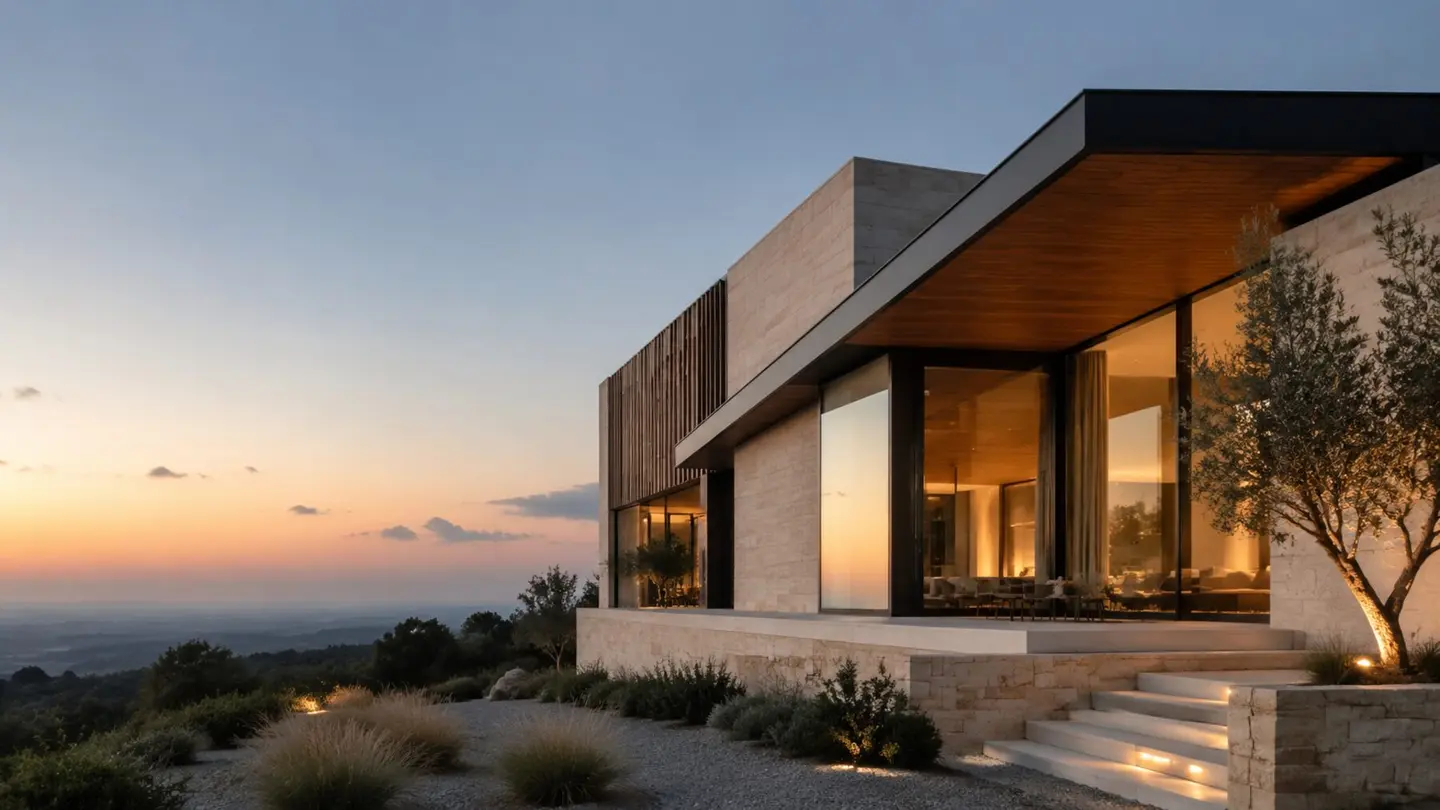
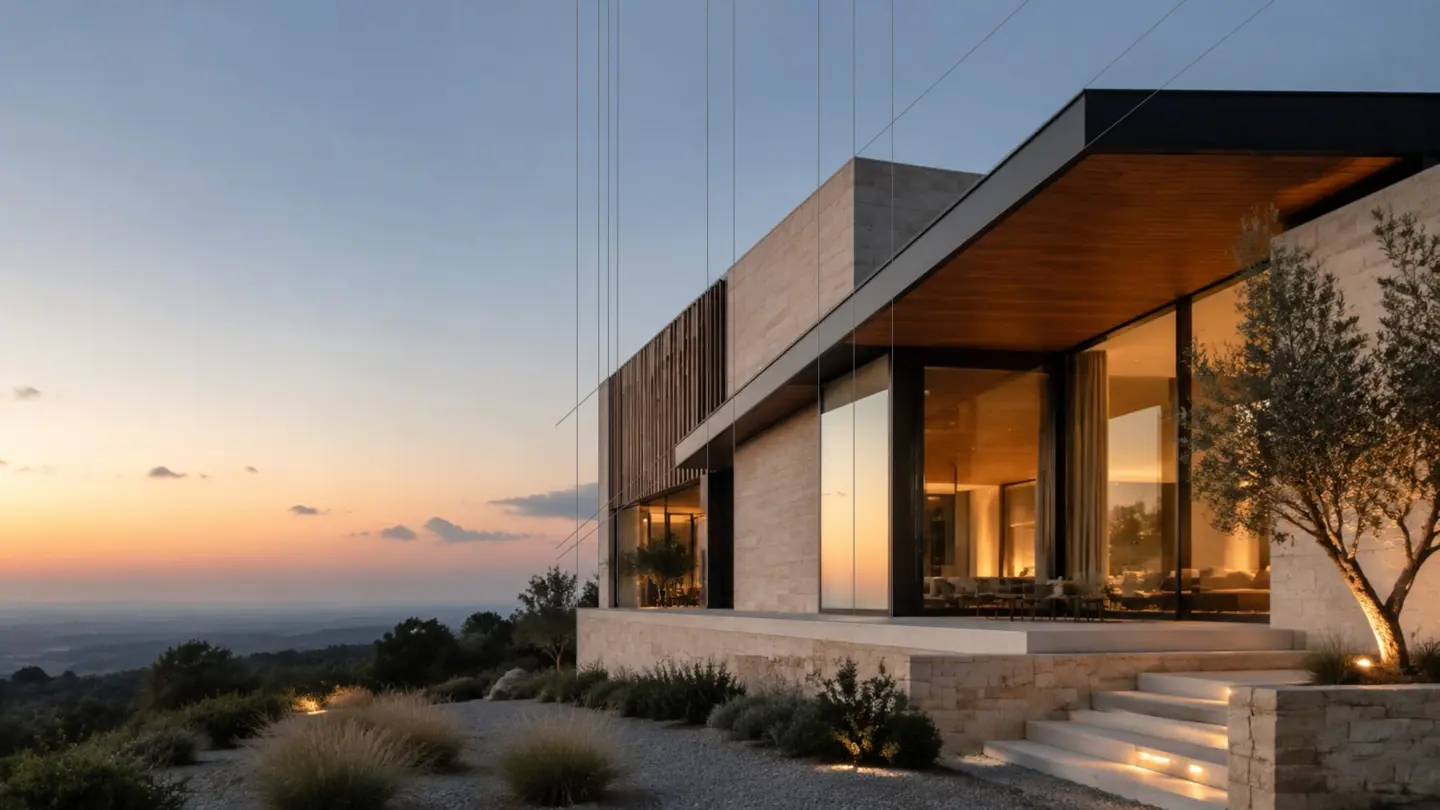
Replace homepage hero artwork

diff --git a/index.html b/index.html
@@ -78,7 +78,7 @@
     :root{--ink:#182321;--paper:#f5f2ec;--cream:#ebe6dc;--white:#fffdfa;--line:#d8d2c8;--muted:#717873;--oxide:#b76747;--olive:#7c8574;--serif:Georgia,'Times New Roman',serif;--sans:Inter,ui-sans-serif,system-ui,-apple-system,BlinkMacSystemFont,'Segoe UI',sans-serif;--wrap:min(1280px,calc(100% - 96px))}
     *{box-sizing:border-box}html{scroll-behavior:smooth}body{margin:0;background:var(--paper);color:var(--ink);font-family:var(--sans);overflow-x:hidden}body.lock{overflow:hidden}a{color:inherit;text-decoration:none}button,input,textarea,select{font:inherit}button{cursor:pointer}.wrap{width:var(--wrap);margin:auto}.eyebrow{font-size:10px;letter-spacing:.18em;text-transform:uppercase;color:var(--muted)}.serif{font-family:var(--serif);font-style:italic;font-weight:400}.progress{position:fixed;z-index:50;top:0;left:0;width:0;height:3px;background:var(--oxide);transform-origin:left}
     .site-header{position:fixed;z-index:40;top:0;left:0;right:0;height:82px;padding:0 48px;display:flex;align-items:center;justify-content:space-between;color:var(--ink);transition:background .35s,color .35s,height .35s}.site-header.scrolled{height:68px;background:rgba(245,242,236,.94);color:var(--ink);backdrop-filter:blur(14px);border-bottom:1px solid var(--line)}.logo{display:flex;align-items:center;width:130px;height:auto}.logo img{display:block;width:100%;height:auto}.desktop-nav{display:flex;align-items:center;gap:34px;font-size:10px;letter-spacing:.14em;text-transform:uppercase}.desktop-nav a{opacity:.8;transition:.2s}.desktop-nav a:hover,.desktop-nav a.active{opacity:1;color:var(--oxide)}.header-action,.outline-action{border:1px solid currentColor;background:transparent;padding:12px 16px;font-size:10px;letter-spacing:.13em;text-transform:uppercase;transition:.25s}.header-action:hover,.outline-action:hover{background:var(--ink);color:#fff;border-color:var(--ink)}.menu-button{display:none;border:0;background:none;color:inherit;font-size:24px;padding:8px}
-    .hero{min-height:760px;height:100svh;position:relative;display:flex;align-items:end;overflow:hidden;background:#d7d2c9;color:var(--ink)}.hero:before{content:"";position:absolute;inset:0;background:linear-gradient(90deg,rgba(247,243,235,.98) 0%,rgba(247,243,235,.88) 20%,rgba(247,243,235,.34) 42%,rgba(9,25,32,.05) 64%,rgba(9,25,32,.22) 100%),linear-gradient(0deg,rgba(4,17,23,.35),transparent 35%);z-index:1;pointer-events:none}.hero-image{position:absolute;inset:0;width:100%;height:100%;object-fit:cover;object-position:center}.hero-blueprint{position:absolute;z-index:2;left:clamp(260px,25vw,430px);top:23%;width:min(300px,24vw);height:auto;opacity:.25;color:#26332e;mix-blend-mode:multiply;pointer-events:none}.hero-blueprint line,.hero-blueprint path,.hero-blueprint rect{vector-effect:non-scaling-stroke}.hero-content{position:relative;z-index:3;width:var(--wrap);margin:0 auto 74px;display:grid;grid-template-columns:1.15fr .85fr;align-items:end;color:var(--ink)}.hero-kicker{font-size:11px;letter-spacing:.2em;text-transform:uppercase;margin-bottom:20px;color:#42504a}.hero h1{font-size:clamp(58px,7.4vw,126px);line-height:.88;letter-spacing:-.075em;font-weight:400;margin:0;max-width:760px}.hero h1 em{font-family:var(--serif);font-style:italic;color:var(--oxide)}.hero-lede{max-width:440px;margin:0 0 5px auto;padding:24px;background:rgba(245,242,236,.9);backdrop-filter:blur(10px);font-size:15px;line-height:1.6;color:#273530}.hero-lede p{margin:0 0 24px}.hero-actions{display:flex;align-items:center;gap:24px;flex-wrap:wrap}.hero-lede .outline-action{color:var(--ink);border-color:var(--ink)}.hero-lede .outline-action:hover{background:var(--ink);color:#fff}.hero-lede .text-link{margin-top:0}.hero-meta{position:absolute;z-index:3;left:48px;bottom:30px;font-size:9px;letter-spacing:.16em;text-transform:uppercase;color:#21302b99}.hero-index{position:absolute;z-index:3;right:48px;bottom:30px;display:flex;align-items:center;gap:14px;color:#fff;font-size:11px}.hero-index i{display:block;width:72px;height:1px;background:#ffffffaa}
+    .hero{min-height:760px;height:100svh;position:relative;display:flex;align-items:end;overflow:hidden;background:#d7d2c9;color:var(--ink)}.hero:before{content:"";position:absolute;inset:0;background:linear-gradient(90deg,rgba(247,243,235,.98) 0%,rgba(247,243,235,.88) 20%,rgba(247,243,235,.34) 42%,rgba(9,25,32,.05) 64%,rgba(9,25,32,.22) 100%),linear-gradient(0deg,rgba(4,17,23,.35),transparent 35%);z-index:1;pointer-events:none}.hero-image{position:absolute;inset:0;width:100%;height:100%;object-fit:cover;object-position:center}.hero-content{position:relative;z-index:3;width:var(--wrap);margin:0 auto 74px;display:grid;grid-template-columns:1.15fr .85fr;align-items:end;color:var(--ink)}.hero-kicker{font-size:11px;letter-spacing:.2em;text-transform:uppercase;margin-bottom:20px;color:#42504a}.hero h1{font-size:clamp(58px,7.4vw,126px);line-height:.88;letter-spacing:-.075em;font-weight:400;margin:0;max-width:760px}.hero h1 em{font-family:var(--serif);font-style:italic;color:var(--oxide)}.hero-lede{max-width:440px;margin:0 0 5px auto;padding:24px;background:rgba(245,242,236,.9);backdrop-filter:blur(10px);font-size:15px;line-height:1.6;color:#273530}.hero-lede p{margin:0 0 24px}.hero-actions{display:flex;align-items:center;gap:24px;flex-wrap:wrap}.hero-lede .outline-action{color:var(--ink);border-color:var(--ink)}.hero-lede .outline-action:hover{background:var(--ink);color:#fff}.hero-lede .text-link{margin-top:0}.hero-meta{position:absolute;z-index:3;left:48px;bottom:30px;font-size:9px;letter-spacing:.16em;text-transform:uppercase;color:#21302b99}.hero-index{position:absolute;z-index:3;right:48px;bottom:30px;display:flex;align-items:center;gap:14px;color:#fff;font-size:11px}.hero-index i{display:block;width:72px;height:1px;background:#ffffffaa}
     .statement{padding:30px 0;border-bottom:1px solid var(--line);background:var(--white)}.statement-grid{display:grid;grid-template-columns:2fr repeat(3,1fr);gap:28px;align-items:center}.statement-lead{font-size:15px;line-height:1.45;max-width:330px}.metric{border-left:1px solid var(--line);padding-left:22px}.metric strong{display:block;font:400 30px var(--serif);margin-bottom:5px}.metric span{font-size:9px;line-height:1.35;text-transform:uppercase;letter-spacing:.13em;color:var(--muted)}
     .section{padding:clamp(100px,13vw,180px) 0}.intro-grid{display:grid;grid-template-columns:1fr 1fr;gap:clamp(40px,11vw,170px)}.section-title{font-size:clamp(56px,7vw,108px);line-height:.88;letter-spacing:-.085em;font-weight:400;margin:25px 0 0}.section-title em{font-family:var(--serif);font-style:italic;color:var(--oxide)}.copy{max-width:430px;align-self:end;color:#59625c;font-size:16px;line-height:1.7}.copy p{margin:0}.text-link{display:inline-flex;gap:22px;align-items:center;margin-top:30px;padding-bottom:9px;border-bottom:1px solid currentColor;font-size:10px;letter-spacing:.15em;text-transform:uppercase}.text-link span{font-size:17px;line-height:.5}
     .principles{padding:0 0 150px}.principles-grid{display:grid;grid-template-columns:repeat(3,1fr);border-top:1px solid var(--line)}.principle{padding:26px 28px 0 0;border-right:1px solid var(--line);min-height:250px}.principle:not(:first-child){padding-left:28px}.principle:last-child{border:0}.principle-number{color:var(--oxide);font:italic 18px var(--serif)}.principle h3{font-weight:400;font-size:23px;margin:45px 0 12px}.principle p{max-width:260px;color:var(--muted);font-size:13px;line-height:1.6;margin:0}
@@ -89,7 +89,7 @@
     .contact{background:var(--olive);color:#fff}.contact-grid{display:grid;grid-template-columns:1fr 1fr;gap:clamp(40px,10vw,150px)}.contact .eyebrow{color:#ffffffaa}.contact .section-title em{color:#f0b29a}.contact-copy{max-width:350px;margin-top:45px;color:#fffbd0aa;font-size:14px;line-height:1.6}.form{display:grid;gap:22px;align-self:end}.form>label{font-size:9px;letter-spacing:.15em;text-transform:uppercase;color:#ffffffaa}.form input,.form textarea,.form select{width:100%;border:0;border-bottom:1px solid #ffffff66;background:transparent;color:#fff;padding:11px 0;outline:0;border-radius:0}.form textarea{min-height:82px;resize:vertical}.form select option{color:var(--ink)}.form input::placeholder,.form textarea::placeholder{color:#ffffff99}.form-trap{position:absolute!important;left:-10000px!important;width:1px!important;height:1px!important;overflow:hidden!important}.consent{display:grid!important;grid-template-columns:18px 1fr;gap:10px;align-items:start;letter-spacing:0!important;text-transform:none!important;font-size:11px!important;line-height:1.45;color:#ffffffaa!important}.consent input{width:16px;height:16px;margin:1px 0 0;accent-color:var(--ink);border:0}.consent a{color:#fff;text-decoration:underline;text-underline-offset:3px}.form-actions{display:flex;gap:18px;align-items:center;margin-top:4px}.solid-action{border:1px solid #fff;background:#fff;color:var(--ink);padding:14px 18px;font-size:10px;letter-spacing:.14em;text-transform:uppercase}.solid-action:hover{background:transparent;color:#fff}.solid-action:disabled{opacity:.6;cursor:wait}.form-error{min-height:17px;font-size:11px;color:#ffd0bd}.success{display:none;border:1px solid #ffffff66;padding:24px;font-size:14px;line-height:1.6}.success.show{display:block}.success strong{display:block;font:italic 28px var(--serif);margin-bottom:8px;color:#f0b29a}
     footer{background:var(--ink);color:#fff;padding:30px 0}.footer-row{display:flex;justify-content:space-between;align-items:center;gap:20px}.footer-logo{display:flex;width:128px}.footer-logo img{display:block;width:100%;height:auto}.footer-note{font-size:9px;letter-spacing:.15em;text-transform:uppercase;color:#ffffff88}
     .drawer-backdrop{display:none;position:fixed;inset:0;z-index:55;background:#061817aa;backdrop-filter:blur(6px)}.drawer-backdrop.open{display:block}.drawer{position:fixed;z-index:60;right:0;top:0;bottom:0;width:min(410px,90vw);padding:28px;background:var(--paper);transform:translateX(100%);transition:.35s}.drawer.open{transform:none}.drawer-close{float:right;border:0;background:none;color:var(--ink);font-size:28px}.drawer-logo{clear:both;padding-top:65px;width:145px}.drawer-logo img{display:block;width:100%;height:auto}.drawer-links{display:grid;gap:0;margin-top:55px}.drawer-links a{padding:18px 0;border-bottom:1px solid var(--line);font-size:20px}.drawer-links a span{float:right;color:var(--oxide)}.modal-backdrop{display:none;position:fixed;inset:0;z-index:70;background:#091918c7;backdrop-filter:blur(8px);align-items:center;justify-content:center;padding:24px}.modal-backdrop.open{display:flex}.modal{position:relative;background:var(--paper);width:min(700px,100%);max-height:90vh;overflow:auto}.modal-image{height:330px}.modal-image img{width:100%;height:100%;object-fit:cover}.modal-body{padding:30px}.modal-body h3{font-size:40px;letter-spacing:-.06em;font-weight:400;margin:12px 0}.modal-body p{color:var(--muted);line-height:1.65}.modal-close{position:absolute;z-index:1;right:14px;top:14px;width:38px;height:38px;border:0;background:var(--ink);color:#fff;font-size:22px}
-    @media(max-width:800px){:root{--wrap:calc(100% - 44px)}.site-header{height:70px;padding:0 22px;background:linear-gradient(90deg,rgba(247,243,235,.82),rgba(247,243,235,0))}.desktop-nav,.header-action{display:none}.menu-button{display:block}.hero{min-height:720px;height:100svh}.hero:before{background:linear-gradient(180deg,rgba(247,243,235,.78) 0%,rgba(247,243,235,.2) 38%,rgba(4,17,23,.62) 100%)}.hero-image{object-position:68% center}.hero-blueprint{display:none}.hero-content{display:block;margin-bottom:72px;color:#fff}.hero-kicker{color:#fff}.hero h1 em{color:#f0b29a}.hero h1{font-size:clamp(52px,15vw,82px);max-width:90%}.hero-lede{margin:24px 0 0;max-width:360px;padding:18px;background:rgba(24,35,33,.72);color:#fff;backdrop-filter:blur(8px)}.hero-actions{gap:16px}.hero-lede .outline-action{color:#fff;border-color:#fff}.hero-lede .text-link{color:#fff}.hero-meta{left:22px;bottom:24px;color:#fff9}.hero-index{right:22px;bottom:24px}.hero-index i{width:38px}.statement-grid{grid-template-columns:1fr 1fr;gap:0}.statement-lead{grid-column:1/-1;max-width:none;margin-bottom:24px}.metric{padding:15px 10px 8px 16px}.metric strong{font-size:25px}.section{padding:88px 0}.intro-grid,.contact-grid,.team-head{display:block}.copy,.team-copy{margin-top:45px;font-size:15px}.principles{padding-bottom:88px}.principles-grid{display:block}.principle,.principle:not(:first-child){padding:23px 0;border-right:0;border-bottom:1px solid var(--line);min-height:0}.principle h3{margin:18px 0 8px}.principle:last-child{border-bottom:0}.team-person{display:block;margin-top:44px}.team-photo{height:380px;margin-bottom:30px}.team-proof{gap:18px}.team-proof strong{font-size:30px}.company-logos{grid-template-columns:1fr 1fr}.company-logo,.company-logo:nth-child(3n){min-height:90px;border-right:1px solid var(--line);border-bottom:1px solid var(--line)}.company-logo:nth-child(2n){border-right:0}.company-logo:nth-last-child(-n+2){border-bottom:0}.process-head{display:block;margin-bottom:45px}.process-intro{margin-top:32px}.process-item{grid-template-columns:46px 1fr 38px;gap:12px;padding:23px 0}.process-item p{grid-column:2/-1;margin-top:-3px}.process-detail{grid-column:2/-1}.projects-head{display:block;margin-bottom:28px}.filter-list{margin-top:30px}.project-grid{display:grid;grid-template-columns:1fr;gap:16px}.project-main{height:440px;margin-bottom:0}.project-side{grid-template-rows:none;gap:16px}.project-small{min-height:280px}.privacy-intro{margin:35px 0 0}.privacy-grid{display:block;margin-top:45px}.privacy-item,.privacy-item:not(:first-child){min-height:0;padding:26px 0;border-right:0;border-bottom:1px solid #ffffff33}.contact-copy{margin:35px 0 50px}.form{margin-top:20px}.form-actions{display:block}.form-note{margin-top:14px}.footer-row{display:block;line-height:2.2}.footer-note{display:block}.modal-image{height:220px}.modal-body h3{font-size:32px}}
+    @media(max-width:800px){:root{--wrap:calc(100% - 44px)}.site-header{height:70px;padding:0 22px;background:linear-gradient(90deg,rgba(247,243,235,.82),rgba(247,243,235,0))}.desktop-nav,.header-action{display:none}.menu-button{display:block}.hero{min-height:720px;height:100svh}.hero:before{background:linear-gradient(180deg,rgba(247,243,235,.78) 0%,rgba(247,243,235,.2) 38%,rgba(4,17,23,.62) 100%)}.hero-image{object-position:68% center}.hero-content{display:block;margin-bottom:72px;color:#fff}.hero-kicker{color:#fff}.hero h1 em{color:#f0b29a}.hero h1{font-size:clamp(52px,15vw,82px);max-width:90%}.hero-lede{margin:24px 0 0;max-width:360px;padding:18px;background:rgba(24,35,33,.72);color:#fff;backdrop-filter:blur(8px)}.hero-actions{gap:16px}.hero-lede .outline-action{color:#fff;border-color:#fff}.hero-lede .text-link{color:#fff}.hero-meta{left:22px;bottom:24px;color:#fff9}.hero-index{right:22px;bottom:24px}.hero-index i{width:38px}.statement-grid{grid-template-columns:1fr 1fr;gap:0}.statement-lead{grid-column:1/-1;max-width:none;margin-bottom:24px}.metric{padding:15px 10px 8px 16px}.metric strong{font-size:25px}.section{padding:88px 0}.intro-grid,.contact-grid,.team-head{display:block}.copy,.team-copy{margin-top:45px;font-size:15px}.principles{padding-bottom:88px}.principles-grid{display:block}.principle,.principle:not(:first-child){padding:23px 0;border-right:0;border-bottom:1px solid var(--line);min-height:0}.principle h3{margin:18px 0 8px}.principle:last-child{border-bottom:0}.team-person{display:block;margin-top:44px}.team-photo{height:380px;margin-bottom:30px}.team-proof{gap:18px}.team-proof strong{font-size:30px}.company-logos{grid-template-columns:1fr 1fr}.company-logo,.company-logo:nth-child(3n){min-height:90px;border-right:1px solid var(--line);border-bottom:1px solid var(--line)}.company-logo:nth-child(2n){border-right:0}.company-logo:nth-last-child(-n+2){border-bottom:0}.process-head{display:block;margin-bottom:45px}.process-intro{margin-top:32px}.process-item{grid-template-columns:46px 1fr 38px;gap:12px;padding:23px 0}.process-item p{grid-column:2/-1;margin-top:-3px}.process-detail{grid-column:2/-1}.projects-head{display:block;margin-bottom:28px}.filter-list{margin-top:30px}.project-grid{display:grid;grid-template-columns:1fr;gap:16px}.project-main{height:440px;margin-bottom:0}.project-side{grid-template-rows:none;gap:16px}.project-small{min-height:280px}.privacy-intro{margin:35px 0 0}.privacy-grid{display:block;margin-top:45px}.privacy-item,.privacy-item:not(:first-child){min-height:0;padding:26px 0;border-right:0;border-bottom:1px solid #ffffff33}.contact-copy{margin:35px 0 50px}.form{margin-top:20px}.form-actions{display:block}.form-note{margin-top:14px}.footer-row{display:block;line-height:2.2}.footer-note{display:block}.modal-image{height:220px}.modal-body h3{font-size:32px}}
     @media(prefers-reduced-motion:reduce){*,*:before,*:after{scroll-behavior:auto!important;transition-duration:.01ms!important}}
     [hidden]{display:none!important}
     @media(max-width:1100px) and (min-width:801px){.site-header{padding:0 28px}.desktop-nav{gap:16px;font-size:9px}}
@@ -105,7 +105,7 @@
   <header class="site-header" id="header"><a class="logo" href="/" aria-label="LEKALO — на главную"><img src="assets/logo.svg" alt="LEKALO"></a><nav class="desktop-nav"><a href="#about">Услуги</a><a href="/stroitelstvo-domov-pod-klyuch/">Строительство</a><a href="/proektirovanie-domov/">Проектирование</a><a href="/generalnyj-podryad/">Технический заказчик</a><a href="/proekty/">Проекты</a></nav><a class="header-action" href="#contact">Оставить заявку</a><button class="menu-button" id="menu" aria-label="Открыть меню" aria-expanded="false">☰</button></header>
   <div class="drawer-backdrop" id="drawerBackdrop"></div><aside class="drawer" id="drawer" aria-hidden="true"><button class="drawer-close" id="drawerClose" aria-label="Закрыть меню">×</button><div class="drawer-logo"><img src="assets/logo.svg" alt="LEKALO"></div><nav class="drawer-links"><a href="#about">Услуги <span>01</span></a><a href="/stroitelstvo-domov-pod-klyuch/">Строительство <span>02</span></a><a href="/proektirovanie-domov/">Проектирование <span>03</span></a><a href="/generalnyj-podryad/">Технический заказчик <span>04</span></a><a href="/proekty/">Проекты <span>05</span></a><a href="#contact">Оставить заявку <span>↗</span></a></nav></aside>
   <main>
-    <section class="hero" id="top"><img class="hero-image" src="/assets/hero-homepage.jpg" srcset="/assets/responsive/hero-homepage-640.webp 640w, /assets/responsive/hero-homepage-960.webp 960w, /assets/responsive/hero-homepage-1440.webp 1440w, /assets/hero-homepage.jpg 1800w" sizes="100vw" decoding="async" alt="Современная частная резиденция на закате" width="1800" height="1013" fetchpriority="high"><svg class="hero-blueprint" viewBox="0 0 320 230" aria-hidden="true"><path d="M18 185V76l96-44 116 29v124H18Z" fill="none" stroke="currentColor" stroke-width="1.2"/><path d="M18 76h96v109M114 32v44M114 76h116M230 61v124M18 185h212M55 185v-62h59v62M145 185v-75h85" fill="none" stroke="currentColor" stroke-width="1"/><path d="M8 76h-6M8 185h-6M5 76v109M18 201h212M18 198v6M230 198v6" fill="none" stroke="currentColor" stroke-width=".8"/><text x="4" y="69" font-size="7" fill="currentColor">H 4.2</text><text x="108" y="216" font-size="7" fill="currentColor">12.8 m</text><circle cx="114" cy="76" r="3" fill="var(--oxide)"/><circle cx="230" cy="61" r="3" fill="var(--oxide)"/></svg><div class="hero-content"><div><div class="hero-kicker">Строительство и управление реализацией премиальных резиденций</div><h1>Дом<br>под вашу <em>жизнь.</em></h1></div><div class="hero-lede"><p>Проектируем, строим и управляем реализацией частных резиденций — от участка и архитектуры до комплектации и ввода в эксплуатацию.</p><div class="hero-actions"><a class="outline-action" href="#contact">Обсудить проект&nbsp; ↗</a><a class="text-link" href="#projects">Смотреть проекты <span>↘</span></a></div></div></div><div class="hero-meta">Москва · Московская область</div><div class="hero-index"><span>01</span><i></i><span>04</span></div></section>
+    <section class="hero" id="top"><img class="hero-image" src="/assets/hero-homepage.jpg" srcset="/assets/responsive/hero-homepage-640.webp 640w, /assets/responsive/hero-homepage-960.webp 960w, /assets/responsive/hero-homepage-1440.webp 1440w, /assets/hero-homepage.jpg 1800w" sizes="100vw" decoding="async" alt="Современная частная резиденция на закате" width="1800" height="1013" fetchpriority="high"><div class="hero-content"><div><div class="hero-kicker">Строительство и управление реализацией премиальных резиденций</div><h1>Дом<br>под вашу <em>жизнь.</em></h1></div><div class="hero-lede"><p>Проектируем, строим и управляем реализацией частных резиденций — от участка и архитектуры до комплектации и ввода в эксплуатацию.</p><div class="hero-actions"><a class="outline-action" href="#contact">Обсудить проект&nbsp; ↗</a><a class="text-link" href="#projects">Смотреть проекты <span>↘</span></a></div></div></div><div class="hero-meta">Москва · Московская область</div><div class="hero-index"><span>01</span><i></i><span>04</span></div></section>
     <!-- Метрики сформированы по подтверждённому портфолио команды и округлены до согласованных публичных значений. -->
     <section class="statement" aria-label="Опыт команды"><div class="wrap statement-grid"><div class="statement-lead">Опыт команды в строительстве, девелопменте и реализации сложных проектов.</div><div class="metric"><strong>500 000</strong><span>м² · совокупный опыт<br>команды</span></div><div class="metric"><strong>15+</strong><span>лет профессионального<br>опыта</span></div><div class="metric"><strong>40+</strong><span>проектов команды<br>компании</span></div></div></section>
     <section class="section capabilities" id="about"><div class="wrap"><div class="eyebrow">02 / Чем можем помочь</div><h2 class="section-title">От задачи<br>до <em>результата.</em></h2><div class="capability-grid"><article class="capability"><small>01</small><h3>Объект от концепции до ввода</h3><p>Формируем стратегию, собираем команду и управляем архитектурой, строительством, комплектацией и документацией до готовности объекта.</p></article><article class="capability"><small>02</small><h3>Архитектура и дизайн</h3><p>Подбираем архитектора под задачу и координируем архитектурные, интерьерные и инженерные решения как единую систему.</p></article><article class="capability"><small>03</small><h3><a href="/audit-stroitelstva/">Строительный аудит и перезапуск</a></h3><p>Проверяем проект, сметы, договоры и площадку, находим критические риски и возвращаем проблемное строительство под контроль.</p></article><article class="capability"><small>04</small><h3>Реконструкция частных резиденций</h3><p>Организуем обновление существующего дома: от аудита конструкций и инженерии до перепланировки, отделки и комплектации.</p></article></div><div class="format-strip" id="formats"><div class="eyebrow">Форматы работы</div><div class="format-list"><a class="format-pill" href="#contact">Полный цикл</a><a class="format-pill" href="#contact">Технический заказчик</a><a class="format-pill" href="#contact">Реализация готового проекта</a><a class="format-pill" href="#contact">Аудит участка или проекта</a><a class="format-pill" href="/audit-stroitelstva/">Перезапуск строительства</a></div></div></div></section>
